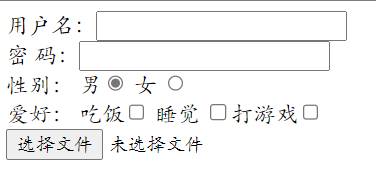
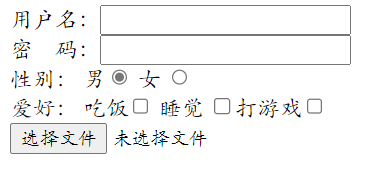
Site updated: 2022-10-24 23:29:41

Changed region(s): [[0.0, 0.3488, 0.9591, 0.9302], [0.0, 0.0, 1.0, 0.3779], [0.0, 0.407, 0.1798, 0.5523]]

diff --git a/sw.js b/sw.js
@@ -10,7 +10,7 @@
 
 'use strict';
 
-var precacheConfig = [["/2022/10/11/MySQL安装/index.html","6368d331629e6b548df9bf03b1d5ab9a"],["/2022/10/11/MySQL操作/index.html","528d9a59b4fbc3b397c2f718725fbf26"],["/2022/10/19/HTML5/index.html","af205c9cacbf6f146ef7f18ec06c9e3e"],["/2022/10/22/CSS学习/index.html","4e052bc5242465fb182033153c2207da"],["/about/index.html","e76acec8c5b2d4aea53b94b8cbdc3209"],["/archives/2022/10/index.html","4147d011654fecd4f681c33033816966"],["/archives/2022/index.html","46de56675c6ac17aa91ca8c5904dd369"],["/archives/index.html","35082651f9809ce66fc561eac69deb70"],["/categories/index.html","a4f8ca22bc68a96698f73d098a5abf43"],["/categories/web前端/index.html","68a0ac1ffad8efcf6ba01b0db6abb1a9"],["/categories/数据库/index.html","0551cedf0d657305753e26a03ad19757"],["/css/FiraCode.css","5721e9035217ed14ca819e025db6bc74"],["/css/barrager.css","c3faa9826b45bdd738e401f0a9c4192f"],["/css/bb.css","a13497fcf67377687248cad43633417c"],["/css/dark.css","fa94e3961b7b3c3adec97d8e7558f33c"],["/css/flesx.css","c883b907e029239a4adbdcfb33d62990"],["/css/gallery.css","995e260b3cd2e85de9f9892b11239361"],["/css/gitment.css","dcd15488193705c273213e72e5ebb7ce"],["/css/indexcover.css","56ef28cea24faa1991bf9f599e24187c"],["/css/loading.css","2103ed59c0acf36d30231c3403cafb4a"],["/css/matery.css","ebd73ef6662e2a33b63c37f5c201dabc"],["/css/my-gitalk.css","3de42b649a2216cc9bbee350cde6a7e0"],["/css/my.css","c4ad2103f0a537e360bd16650e547b22"],["/css/post.css","16f5d4d84047b4390fddbcac1df17b22"],["/css/prism-line-numbers.css","0810c0e4aa6528786cf1253de32ea115"],["/css/prism-tomorrow.css","f46d7519e3b65a6912814727b47a57ff"],["/css/reward.css","8c7d18c8fa6b0e82cc75a867e7e533da"],["/favicon.png","bb44feefd80d6541316f0a21cb5cb824"],["/images/MySQLdownload.png","db6c0387d9a82be60b1f77a212f72017"],["/images/MySQL的路径.png","f2f83bb82bbd8b0de86126d12d930545"],["/images/input表单元素.png","998db64fdb959679d2047038c80bd442"],["/images/新建MySQL环境变量.png","9cc24ce7c50c1a401644d220e5fafbe4"],["/images/无序列表.png","80c06739603280bf4d6dbc0b11744522"],["/images/有序列表.png","e320ee4c4820ddc9b21673556fda4340"],["/images/注册MySQL.png","4cbe376be67b49487f93c45cae786b56"],["/images/添加path.png","b4e3d6ffcfa4ea3cc3dd06b3e30e7ab1"],["/images/生成data.png","d0289c94768f58ce99c4200d10287c69"],["/images/配置MySQL环境变量.png","878a79d52deb5d55ed9c269abe84871a"],["/index.html","cae050665afe62c5d7541e85aa1ef3df"],["/js/canvas_moving.js","d41d8cd98f00b204e9800998ecf8427e"],["/js/crypto-js.js","60ab5dbd46dfa34dfef3c1548a22a978"],["/js/gallery-encrypt.js","84a2c90b15a9313ca9a29ef49e70ba3d"],["/js/jquery.barrager.js","1c84c8e84cd2f94bdb222c75f0638bb6"],["/js/matery.js","9f67a1c1ca204dd3257ba7cd883d77fb"],["/js/search.js","7eca48f0950d5e0a2e04b65964c34d2f"],["/libs/animate/animate.min.css","178b651958ceff556cbc5f355e08bbf1"],["/libs/aos/aos.css","04140612fb8b418cda27dee6ecf61042"],["/libs/aos/aos.js","9cc58a148779953a5ebe9360d6cf978c"],["/libs/aplayer/APlayer.min.css","fbe994054426fadb2dff69d824c5c67a"],["/libs/aplayer/APlayer.min.js","8f1017e7a73737e631ff95fa51e4e7d7"],["/libs/aplayer/Meting.min.js","c0e989e618a2c6f90f59fa1822941d75"],["/libs/awesome/css/all.css","59e626fe99d31dfded1e674a4089e0c8"],["/libs/awesome/css/all.min.css","8ef777107c4620d4ddd4f8c4bb14a36c"],["/libs/awesome/webfonts/fa-brands-400.ttf","3c90ddcce4c5c666e642e5b6ae53ede6"],["/libs/awesome/webfonts/fa-brands-400.woff2","5531dd3a7705ec68a6c5f5d02b25da6f"],["/libs/awesome/webfonts/fa-regular-400.ttf","02acddafdebd72be23b03798c86f2fec"],["/libs/awesome/webfonts/fa-regular-400.woff2","e42bcafcb7cc5002daa805140064bf40"],["/libs/awesome/webfonts/fa-solid-900.ttf","a59a3077d72245429c95c29dfe119546"],["/libs/awesome/webfonts/fa-solid-900.woff2","be4dccbe54eea47a0ad5d7bb60a3c17d"],["/libs/awesome/webfonts/fa-v4compatibility.ttf","6334955791896af71300ae5c46e8fb08"],["/libs/awesome/webfonts/fa-v4compatibility.woff2","eca6332a7e5060488f5fb896747fe50a"],["/libs/background/canvas-nest.js","a62fd97db8d4bce3a5e30406831e398d"],["/libs/background/ribbon-dynamic.js","eb6e9d5f62d717fa62445227883dc7b7"],["/libs/background/ribbon-refresh.min.js","6692e63df52b5230e673fc0a3aea5534"],["/libs/background/ribbon.min.js","52d83827dd2784a3d41b65694a6534e5"],["/libs/codeBlock/codeBlockFuction.js","1f379c32001349805cb987371cfccd1a"],["/libs/codeBlock/codeCopy.js","55f2d2a503aad4f9af5d3af66df912cf"],["/libs/codeBlock/codeLang.js","dc4533be151964237f2a0006db27e5fa"],["/libs/codeBlock/codeShrink.js","ae277c5d8f8336fce64f89203b926d19"],["/libs/cryptojs/crypto-js.min.js","a39fc84fa7659e1d898bbcddf20aa989"],["/libs/dplayer/DPlayer.min.css","31ac9b1a5a7f018dcc9a0e0f66261c08"],["/libs/dplayer/DPlayer.min.js","472552604f19815d0a634bd3d953171e"],["/libs/echarts/echarts.min.js","b4af19a834bf7cd6435dd8e1ad24cc90"],["/libs/fancybox/fancybox.js","49a6b4d019a934bcf83f0c397eba82d8"],["/libs/fancybox/jquery.fancybox.css","a2d42584292f64c5827e8b67b1b38726"],["/libs/gitalk/gitalk.css","8476031a633732dff9875feae0890070"],["/libs/gitalk/gitalk.min.js","7152eaccbb4bfa6333e19971960018e9"],["/libs/gitment/gitment-default.css","46f304e637384c546f25b5ad90f0fe5a"],["/libs/gitment/gitment.js","2d64177544df22f08ccc1c86fc181e0e"],["/libs/instantpage/instantpage.js","47fcedd7bba8eb1ad3b035c8727f06b5"],["/libs/jqcloud/jqcloud-1.0.4.min.js","b5b4d1002ff256e9bed2b339f572dedc"],["/libs/jqcloud/jqcloud.css","978ed746c5673321fba8401ed6a536ac"],["/libs/jquery/jquery-3.6.0.min.js","8fb8fee4fcc3cc86ff6c724154c49c42"],["/libs/justifiedGallery/justifiedGallery.min.css","0eb3894f1fb48fbc54fbd2072b4372f8"],["/libs/justifiedGallery/justifiedGallery.min.js","f12e15ba020d049ba166af44960051c9"],["/libs/lightGallery/css/lightgallery.min.css","0ecaf59cd1b7e19f2a7b34683d32068c"],["/libs/lightGallery/fonts/lg.svg","e2ec05977cb4b0a18bbcb7f607b79620"],["/libs/lightGallery/fonts/lg.ttf","f4292655f93dd12d9b8e4fc067ef2489"],["/libs/lightGallery/fonts/lg.woff","1fbfd4bcffccb94e8e8a5ea70616b296"],["/libs/lightGallery/img/loading.gif","bbdac9cda255c54bfd809110aff87898"],["/libs/lightGallery/img/video-play.png","d672259b56b5dd1abdff3a98d87864e8"],["/libs/lightGallery/img/vimeo-play.png","a951123e4f7cb5d037a6a872f001a8af"],["/libs/lightGallery/img/youtube-play.png","6267452d4f9c32c7550cec6587f985d3"],["/libs/lightGallery/js/lightgallery-all.min.js","b4705ab663a9555d29fa69a3cf6bec0b"],["/libs/masonry/masonry.pkgd.min.js","520e46df77727aaf3d5e799ef241be02"],["/libs/materialize/materialize.min.css","3a5681d6939e48ba5038fbf8f9f244a2"],["/libs/materialize/materialize.min.js","87d84bf8b4cc051c16092d27b1a7d9b3"],["/libs/mermaid/mermaid.js","f3687bf99ec4a8b6608d45d2809eab00"],["/libs/mermaid/mermaid.min.css","5e9cbdf9d18097fc1d4649670a5be633"],["/libs/mermaid/mermaid.min.js","ded87f243544923cd210927ca94ab13c"],["/libs/minivaline/MiniValine.js","bb0f8ed46503472ce77575f9db9dda93"],["/libs/others/TencentCaptcha.js","628af9af35fd7579c1b5f481f7a77aa0"],["/libs/others/buble.js","2e0024a9ce8eb997e7ed4a1b6e50053d"],["/libs/others/busuanzi.pure.mini.js","4c9a89414b97bb2053ccc7cb83c83b6e"],["/libs/others/clicklove.js","6a3861c11c04010dd4de27c162cb8a83"],["/libs/others/popupText.js","1c58c6da78090863189a9059d3370488"],["/libs/others/sakura-half.js","d1cccaec887352d5fff341f873ee0210"],["/libs/others/sakura-reduce.js","c86b1fe1a4f144ec4784b13b17821869"],["/libs/others/sakura-small.js","d9a110e05f736ef48c93f05b45edd397"],["/libs/others/sakura.js","cb6251075cc14487276119b508cd68bf"],["/libs/others/snow.js","f320c79941e71f888b78084d8041e8d9"],["/libs/others/star.js","27343eec730d8dc904e90c898ee84824"],["/libs/prism/prism.min.css","4b60600e667d6e9c12c09847efad9212"],["/libs/prism/prism.min.js","c5836472f4637c9b4ab02b6f4eaf0bae"],["/libs/scrollprogress/scrollProgress.min.js","63212ebfb10736224d44bcda8a155278"],["/libs/share/css/share.min.css","a5d28161d70468ec2378da676284a34f"],["/libs/share/fonts/iconfont.eot","e83ffaa95463f987abe5db5bbbe303cc"],["/libs/share/fonts/iconfont.svg","6b3cbfae255ab1f2c1e8e8bfc80754d4"],["/libs/share/fonts/iconfont.ttf","9ac2cc5ae8616eb50c033525dc14a5eb"],["/libs/share/fonts/iconfont.woff","bf0fc2ec6e2a614635e0ab6e81d059ef"],["/libs/share/js/jquery.share.min.js","044c903516dd20036471d65d5269821c"],["/libs/share/js/social-share.min.js","7d8197222dcdbe0e7e645a605bf76851"],["/libs/tocbot/tocbot.css","e8f0173e7c5216e5359587a88a570b77"],["/libs/tocbot/tocbot.min.js","4d7b1dfb31f74b6d0701cf3120933597"],["/libs/twikoo/twikoo.all.min.js","feefb4c63d8eea58211ef6113d5ef163"],["/libs/typed/typed.js","477fdd6405150093080290d2e8153eac"],["/libs/valine/Valine.min.js","331401bbfbdcceabffa29e3507e00be4"],["/libs/valine/av-min.js","b3a0738d1144660f94741da963c1d268"],["/libs/waline/Waline.min.js","ed6cbbe9d1e40233030635398ed386aa"],["/live2dw/lib/L2Dwidget.0.min.js","32973883fcac0a9ae6cc79c0ea25fda2"],["/live2dw/lib/L2Dwidget.min.js","094cbace49a39548bed64abff5988b05"],["/medias/avatar.jpg","24361c381571dbf415de5d04f374f76d"],["/medias/banner/0.jpg","fd61f8bba3896620625d32aff189d6cc"],["/medias/banner/1.jpg","d637331f15d889f30b5a8521c80fc98a"],["/medias/banner/2.jpg","064fb4f421d0620ddcb2b218dcc1bd0f"],["/medias/banner/3.jpg","445dcbe7944b2e3bd5d53b7bea04a1c8"],["/medias/banner/4.jpg","9e2e5ff9fb783c78c7bad47041787097"],["/medias/banner/5.jpg","8319a1b033ffa1ae31b757d16390e69e"],["/medias/banner/6.jpg","a939c8c257fad2cf32ff4db949f6d578"],["/medias/barrager/0.png","f5d8318197ffd7ce9aacf308bf186c5e"],["/medias/barrager/1.png","ea244312d1bf53680470f3da4d308bb4"],["/medias/barrager/2.png","50e265a8acfea4b3bafd407dff4ceaba"],["/medias/barrager/close.png","ab45ca050318e57b6559bb3503bc19a1"],["/medias/comment_bg.png","04208f25e34b8f29f072efbb2e212c86"],["/medias/cover.jpg","1253d8cf7abf8e92af47bda2bf61bd84"],["/medias/featureimages/0.jpg","f751cba3a4cd6381611bb4ec97d35e77"],["/medias/featureimages/1.jpg","d440f1a8faa3af050511b79ae30a10b0"],["/medias/featureimages/10.jpg","daaa0bfde5bade9fd47a9828a89c1044"],["/medias/featureimages/11.jpg","c613fbd6f7fadb8e65fdae620d89d277"],["/medias/featureimages/12.jpg","df9abf1fa933cee751d211828c35e4f5"],["/medias/featureimages/13.jpg","677c90f32232dd162b9c504ff176b100"],["/medias/featureimages/14.jpg","891ea5f9186f889adef7b215d9be9948"],["/medias/featureimages/15.jpg","3cf1acc3d317690beae0520a1e606b30"],["/medias/featureimages/16.jpg","403a5973092edf7b1fc9cfb809ed4b05"],["/medias/featureimages/17.jpg","a88c2a1cc175f75b8b60f3224026b4de"],["/medias/featureimages/18.jpg","d8104647c594f21438cbc17331c57025"],["/medias/featureimages/19.jpg","86258814e4374b85adac9bd8235ad110"],["/medias/featureimages/2.jpg","d2f7104d393ee322de0cba7313eddf74"],["/medias/featureimages/20.jpg","0ec7a7cc344f3d47dbc556ea312a365f"],["/medias/featureimages/21.jpg","7202402f259237ea1f3f6bb82d208888"],["/medias/featureimages/22.jpg","6b1b1da789eecd376a5e6843314f26ad"],["/medias/featureimages/23.jpg","95ea042be75c28794ddca649388ad3c7"],["/medias/featureimages/3.jpg","afcee76cc47ff729c484202e201cafd4"],["/medias/featureimages/4.jpg","ddd80ccca8d84079255bbfbf4244debd"],["/medias/featureimages/5.jpg","eeb46fbd8f9c6999a2f3fbdcf34e8b3e"],["/medias/featureimages/6.jpg","ae4562052cf07bc1912d5fd90e00b2ce"],["/medias/featureimages/7.jpg","af5b8a1b0fbab59e68a69005b2a0eeb7"],["/medias/featureimages/8.jpg","6d9136c0bf542e136dd70a6a7c97521b"],["/medias/featureimages/9.jpg","52e8f9aca543d2d4838c14bce33ecee1"],["/medias/icp.png","60aa047315ba11596d9f954900c86fdb"],["/medias/images/01.jpg","df3a6be5078170d97b0fa7af440c00d5"],["/medias/images/02.jpg","e48d5fab83ae2f90e2e6f0eef22ec85c"],["/medias/images/03.jpg","01d3b8abfc97d822ef159033b3cec89f"],["/medias/logo.png","6fd306e0fb239e42ec8f82793e6ae6ee"],["/medias/reward/alipay.jpg","04870d77ea3c0385dca3679c36fca0fa"],["/medias/reward/wechat.png","643f8e9c3d85731ada4b20db1924fdc9"],["/sw-register.js","e1112f3debf015fe07e98c38e8607f0b"],["/tags/CSS/index.html","934d7dd6e85b0a593aa3b47f8d1b862b"],["/tags/MySQL/index.html","46edc6505ded09c0cb2e667ea2ff89a0"],["/tags/html/index.html","ebcaeb6611c03eb611ba8f79792681b8"],["/tags/index.html","7316044ea0d6b224c33ff2eb81f5daf6"]];
+var precacheConfig = [["/2022/10/11/MySQL安装/index.html","6368d331629e6b548df9bf03b1d5ab9a"],["/2022/10/11/MySQL操作/index.html","528d9a59b4fbc3b397c2f718725fbf26"],["/2022/10/19/HTML5/index.html","2ac15e1e00ebf6677fda6fcfc17c296e"],["/2022/10/22/CSS学习/index.html","4e052bc5242465fb182033153c2207da"],["/about/index.html","e76acec8c5b2d4aea53b94b8cbdc3209"],["/archives/2022/10/index.html","4147d011654fecd4f681c33033816966"],["/archives/2022/index.html","46de56675c6ac17aa91ca8c5904dd369"],["/archives/index.html","35082651f9809ce66fc561eac69deb70"],["/categories/index.html","a4f8ca22bc68a96698f73d098a5abf43"],["/categories/web前端/index.html","68a0ac1ffad8efcf6ba01b0db6abb1a9"],["/categories/数据库/index.html","0551cedf0d657305753e26a03ad19757"],["/css/FiraCode.css","5721e9035217ed14ca819e025db6bc74"],["/css/barrager.css","c3faa9826b45bdd738e401f0a9c4192f"],["/css/bb.css","a13497fcf67377687248cad43633417c"],["/css/dark.css","fa94e3961b7b3c3adec97d8e7558f33c"],["/css/flesx.css","c883b907e029239a4adbdcfb33d62990"],["/css/gallery.css","995e260b3cd2e85de9f9892b11239361"],["/css/gitment.css","dcd15488193705c273213e72e5ebb7ce"],["/css/indexcover.css","56ef28cea24faa1991bf9f599e24187c"],["/css/loading.css","2103ed59c0acf36d30231c3403cafb4a"],["/css/matery.css","ebd73ef6662e2a33b63c37f5c201dabc"],["/css/my-gitalk.css","3de42b649a2216cc9bbee350cde6a7e0"],["/css/my.css","c4ad2103f0a537e360bd16650e547b22"],["/css/post.css","16f5d4d84047b4390fddbcac1df17b22"],["/css/prism-line-numbers.css","0810c0e4aa6528786cf1253de32ea115"],["/css/prism-tomorrow.css","f46d7519e3b65a6912814727b47a57ff"],["/css/reward.css","8c7d18c8fa6b0e82cc75a867e7e533da"],["/favicon.png","bb44feefd80d6541316f0a21cb5cb824"],["/images/MySQLdownload.png","db6c0387d9a82be60b1f77a212f72017"],["/images/MySQL的路径.png","f2f83bb82bbd8b0de86126d12d930545"],["/images/input表单元素.png","a245abb9deafe2817a20342d551cd3e9"],["/images/新建MySQL环境变量.png","9cc24ce7c50c1a401644d220e5fafbe4"],["/images/无序列表.png","80c06739603280bf4d6dbc0b11744522"],["/images/有序列表.png","e320ee4c4820ddc9b21673556fda4340"],["/images/注册MySQL.png","4cbe376be67b49487f93c45cae786b56"],["/images/添加path.png","b4e3d6ffcfa4ea3cc3dd06b3e30e7ab1"],["/images/生成data.png","d0289c94768f58ce99c4200d10287c69"],["/images/配置MySQL环境变量.png","878a79d52deb5d55ed9c269abe84871a"],["/index.html","cae050665afe62c5d7541e85aa1ef3df"],["/js/canvas_moving.js","d41d8cd98f00b204e9800998ecf8427e"],["/js/crypto-js.js","60ab5dbd46dfa34dfef3c1548a22a978"],["/js/gallery-encrypt.js","84a2c90b15a9313ca9a29ef49e70ba3d"],["/js/jquery.barrager.js","1c84c8e84cd2f94bdb222c75f0638bb6"],["/js/matery.js","9f67a1c1ca204dd3257ba7cd883d77fb"],["/js/search.js","7eca48f0950d5e0a2e04b65964c34d2f"],["/libs/animate/animate.min.css","178b651958ceff556cbc5f355e08bbf1"],["/libs/aos/aos.css","04140612fb8b418cda27dee6ecf61042"],["/libs/aos/aos.js","9cc58a148779953a5ebe9360d6cf978c"],["/libs/aplayer/APlayer.min.css","fbe994054426fadb2dff69d824c5c67a"],["/libs/aplayer/APlayer.min.js","8f1017e7a73737e631ff95fa51e4e7d7"],["/libs/aplayer/Meting.min.js","c0e989e618a2c6f90f59fa1822941d75"],["/libs/awesome/css/all.css","59e626fe99d31dfded1e674a4089e0c8"],["/libs/awesome/css/all.min.css","8ef777107c4620d4ddd4f8c4bb14a36c"],["/libs/awesome/webfonts/fa-brands-400.ttf","3c90ddcce4c5c666e642e5b6ae53ede6"],["/libs/awesome/webfonts/fa-brands-400.woff2","5531dd3a7705ec68a6c5f5d02b25da6f"],["/libs/awesome/webfonts/fa-regular-400.ttf","02acddafdebd72be23b03798c86f2fec"],["/libs/awesome/webfonts/fa-regular-400.woff2","e42bcafcb7cc5002daa805140064bf40"],["/libs/awesome/webfonts/fa-solid-900.ttf","a59a3077d72245429c95c29dfe119546"],["/libs/awesome/webfonts/fa-solid-900.woff2","be4dccbe54eea47a0ad5d7bb60a3c17d"],["/libs/awesome/webfonts/fa-v4compatibility.ttf","6334955791896af71300ae5c46e8fb08"],["/libs/awesome/webfonts/fa-v4compatibility.woff2","eca6332a7e5060488f5fb896747fe50a"],["/libs/background/canvas-nest.js","a62fd97db8d4bce3a5e30406831e398d"],["/libs/background/ribbon-dynamic.js","eb6e9d5f62d717fa62445227883dc7b7"],["/libs/background/ribbon-refresh.min.js","6692e63df52b5230e673fc0a3aea5534"],["/libs/background/ribbon.min.js","52d83827dd2784a3d41b65694a6534e5"],["/libs/codeBlock/codeBlockFuction.js","1f379c32001349805cb987371cfccd1a"],["/libs/codeBlock/codeCopy.js","55f2d2a503aad4f9af5d3af66df912cf"],["/libs/codeBlock/codeLang.js","dc4533be151964237f2a0006db27e5fa"],["/libs/codeBlock/codeShrink.js","ae277c5d8f8336fce64f89203b926d19"],["/libs/cryptojs/crypto-js.min.js","a39fc84fa7659e1d898bbcddf20aa989"],["/libs/dplayer/DPlayer.min.css","31ac9b1a5a7f018dcc9a0e0f66261c08"],["/libs/dplayer/DPlayer.min.js","472552604f19815d0a634bd3d953171e"],["/libs/echarts/echarts.min.js","b4af19a834bf7cd6435dd8e1ad24cc90"],["/libs/fancybox/fancybox.js","49a6b4d019a934bcf83f0c397eba82d8"],["/libs/fancybox/jquery.fancybox.css","a2d42584292f64c5827e8b67b1b38726"],["/libs/gitalk/gitalk.css","8476031a633732dff9875feae0890070"],["/libs/gitalk/gitalk.min.js","7152eaccbb4bfa6333e19971960018e9"],["/libs/gitment/gitment-default.css","46f304e637384c546f25b5ad90f0fe5a"],["/libs/gitment/gitment.js","2d64177544df22f08ccc1c86fc181e0e"],["/libs/instantpage/instantpage.js","47fcedd7bba8eb1ad3b035c8727f06b5"],["/libs/jqcloud/jqcloud-1.0.4.min.js","b5b4d1002ff256e9bed2b339f572dedc"],["/libs/jqcloud/jqcloud.css","978ed746c5673321fba8401ed6a536ac"],["/libs/jquery/jquery-3.6.0.min.js","8fb8fee4fcc3cc86ff6c724154c49c42"],["/libs/justifiedGallery/justifiedGallery.min.css","0eb3894f1fb48fbc54fbd2072b4372f8"],["/libs/justifiedGallery/justifiedGallery.min.js","f12e15ba020d049ba166af44960051c9"],["/libs/lightGallery/css/lightgallery.min.css","0ecaf59cd1b7e19f2a7b34683d32068c"],["/libs/lightGallery/fonts/lg.svg","e2ec05977cb4b0a18bbcb7f607b79620"],["/libs/lightGallery/fonts/lg.ttf","f4292655f93dd12d9b8e4fc067ef2489"],["/libs/lightGallery/fonts/lg.woff","1fbfd4bcffccb94e8e8a5ea70616b296"],["/libs/lightGallery/img/loading.gif","bbdac9cda255c54bfd809110aff87898"],["/libs/lightGallery/img/video-play.png","d672259b56b5dd1abdff3a98d87864e8"],["/libs/lightGallery/img/vimeo-play.png","a951123e4f7cb5d037a6a872f001a8af"],["/libs/lightGallery/img/youtube-play.png","6267452d4f9c32c7550cec6587f985d3"],["/libs/lightGallery/js/lightgallery-all.min.js","b4705ab663a9555d29fa69a3cf6bec0b"],["/libs/masonry/masonry.pkgd.min.js","520e46df77727aaf3d5e799ef241be02"],["/libs/materialize/materialize.min.css","3a5681d6939e48ba5038fbf8f9f244a2"],["/libs/materialize/materialize.min.js","87d84bf8b4cc051c16092d27b1a7d9b3"],["/libs/mermaid/mermaid.js","f3687bf99ec4a8b6608d45d2809eab00"],["/libs/mermaid/mermaid.min.css","5e9cbdf9d18097fc1d4649670a5be633"],["/libs/mermaid/mermaid.min.js","ded87f243544923cd210927ca94ab13c"],["/libs/minivaline/MiniValine.js","bb0f8ed46503472ce77575f9db9dda93"],["/libs/others/TencentCaptcha.js","628af9af35fd7579c1b5f481f7a77aa0"],["/libs/others/buble.js","2e0024a9ce8eb997e7ed4a1b6e50053d"],["/libs/others/busuanzi.pure.mini.js","4c9a89414b97bb2053ccc7cb83c83b6e"],["/libs/others/clicklove.js","6a3861c11c04010dd4de27c162cb8a83"],["/libs/others/popupText.js","1c58c6da78090863189a9059d3370488"],["/libs/others/sakura-half.js","d1cccaec887352d5fff341f873ee0210"],["/libs/others/sakura-reduce.js","c86b1fe1a4f144ec4784b13b17821869"],["/libs/others/sakura-small.js","d9a110e05f736ef48c93f05b45edd397"],["/libs/others/sakura.js","cb6251075cc14487276119b508cd68bf"],["/libs/others/snow.js","f320c79941e71f888b78084d8041e8d9"],["/libs/others/star.js","27343eec730d8dc904e90c898ee84824"],["/libs/prism/prism.min.css","4b60600e667d6e9c12c09847efad9212"],["/libs/prism/prism.min.js","c5836472f4637c9b4ab02b6f4eaf0bae"],["/libs/scrollprogress/scrollProgress.min.js","63212ebfb10736224d44bcda8a155278"],["/libs/share/css/share.min.css","a5d28161d70468ec2378da676284a34f"],["/libs/share/fonts/iconfont.eot","e83ffaa95463f987abe5db5bbbe303cc"],["/libs/share/fonts/iconfont.svg","6b3cbfae255ab1f2c1e8e8bfc80754d4"],["/libs/share/fonts/iconfont.ttf","9ac2cc5ae8616eb50c033525dc14a5eb"],["/libs/share/fonts/iconfont.woff","bf0fc2ec6e2a614635e0ab6e81d059ef"],["/libs/share/js/jquery.share.min.js","044c903516dd20036471d65d5269821c"],["/libs/share/js/social-share.min.js","7d8197222dcdbe0e7e645a605bf76851"],["/libs/tocbot/tocbot.css","e8f0173e7c5216e5359587a88a570b77"],["/libs/tocbot/tocbot.min.js","4d7b1dfb31f74b6d0701cf3120933597"],["/libs/twikoo/twikoo.all.min.js","feefb4c63d8eea58211ef6113d5ef163"],["/libs/typed/typed.js","477fdd6405150093080290d2e8153eac"],["/libs/valine/Valine.min.js","331401bbfbdcceabffa29e3507e00be4"],["/libs/valine/av-min.js","b3a0738d1144660f94741da963c1d268"],["/libs/waline/Waline.min.js","ed6cbbe9d1e40233030635398ed386aa"],["/live2dw/lib/L2Dwidget.0.min.js","32973883fcac0a9ae6cc79c0ea25fda2"],["/live2dw/lib/L2Dwidget.min.js","094cbace49a39548bed64abff5988b05"],["/medias/avatar.jpg","24361c381571dbf415de5d04f374f76d"],["/medias/banner/0.jpg","fd61f8bba3896620625d32aff189d6cc"],["/medias/banner/1.jpg","d637331f15d889f30b5a8521c80fc98a"],["/medias/banner/2.jpg","064fb4f421d0620ddcb2b218dcc1bd0f"],["/medias/banner/3.jpg","445dcbe7944b2e3bd5d53b7bea04a1c8"],["/medias/banner/4.jpg","9e2e5ff9fb783c78c7bad47041787097"],["/medias/banner/5.jpg","8319a1b033ffa1ae31b757d16390e69e"],["/medias/banner/6.jpg","a939c8c257fad2cf32ff4db949f6d578"],["/medias/barrager/0.png","f5d8318197ffd7ce9aacf308bf186c5e"],["/medias/barrager/1.png","ea244312d1bf53680470f3da4d308bb4"],["/medias/barrager/2.png","50e265a8acfea4b3bafd407dff4ceaba"],["/medias/barrager/close.png","ab45ca050318e57b6559bb3503bc19a1"],["/medias/comment_bg.png","04208f25e34b8f29f072efbb2e212c86"],["/medias/cover.jpg","1253d8cf7abf8e92af47bda2bf61bd84"],["/medias/featureimages/0.jpg","f751cba3a4cd6381611bb4ec97d35e77"],["/medias/featureimages/1.jpg","d440f1a8faa3af050511b79ae30a10b0"],["/medias/featureimages/10.jpg","daaa0bfde5bade9fd47a9828a89c1044"],["/medias/featureimages/11.jpg","c613fbd6f7fadb8e65fdae620d89d277"],["/medias/featureimages/12.jpg","df9abf1fa933cee751d211828c35e4f5"],["/medias/featureimages/13.jpg","677c90f32232dd162b9c504ff176b100"],["/medias/featureimages/14.jpg","891ea5f9186f889adef7b215d9be9948"],["/medias/featureimages/15.jpg","3cf1acc3d317690beae0520a1e606b30"],["/medias/featureimages/16.jpg","403a5973092edf7b1fc9cfb809ed4b05"],["/medias/featureimages/17.jpg","a88c2a1cc175f75b8b60f3224026b4de"],["/medias/featureimages/18.jpg","d8104647c594f21438cbc17331c57025"],["/medias/featureimages/19.jpg","86258814e4374b85adac9bd8235ad110"],["/medias/featureimages/2.jpg","d2f7104d393ee322de0cba7313eddf74"],["/medias/featureimages/20.jpg","0ec7a7cc344f3d47dbc556ea312a365f"],["/medias/featureimages/21.jpg","7202402f259237ea1f3f6bb82d208888"],["/medias/featureimages/22.jpg","6b1b1da789eecd376a5e6843314f26ad"],["/medias/featureimages/23.jpg","95ea042be75c28794ddca649388ad3c7"],["/medias/featureimages/3.jpg","afcee76cc47ff729c484202e201cafd4"],["/medias/featureimages/4.jpg","ddd80ccca8d84079255bbfbf4244debd"],["/medias/featureimages/5.jpg","eeb46fbd8f9c6999a2f3fbdcf34e8b3e"],["/medias/featureimages/6.jpg","ae4562052cf07bc1912d5fd90e00b2ce"],["/medias/featureimages/7.jpg","af5b8a1b0fbab59e68a69005b2a0eeb7"],["/medias/featureimages/8.jpg","6d9136c0bf542e136dd70a6a7c97521b"],["/medias/featureimages/9.jpg","52e8f9aca543d2d4838c14bce33ecee1"],["/medias/icp.png","60aa047315ba11596d9f954900c86fdb"],["/medias/images/01.jpg","df3a6be5078170d97b0fa7af440c00d5"],["/medias/images/02.jpg","e48d5fab83ae2f90e2e6f0eef22ec85c"],["/medias/images/03.jpg","01d3b8abfc97d822ef159033b3cec89f"],["/medias/logo.png","6fd306e0fb239e42ec8f82793e6ae6ee"],["/medias/reward/alipay.jpg","04870d77ea3c0385dca3679c36fca0fa"],["/medias/reward/wechat.png","643f8e9c3d85731ada4b20db1924fdc9"],["/sw-register.js","01d890a1564a340e47bfc4d62e0f097f"],["/tags/CSS/index.html","934d7dd6e85b0a593aa3b47f8d1b862b"],["/tags/MySQL/index.html","46edc6505ded09c0cb2e667ea2ff89a0"],["/tags/html/index.html","ebcaeb6611c03eb611ba8f79792681b8"],["/tags/index.html","7316044ea0d6b224c33ff2eb81f5daf6"]];
 var cacheName = 'sw-precache-v3--' + (self.registration ? self.registration.scope : '');
 var firstRegister = 1; // 默认1是首次安装SW， 0是SW更新
 

diff --git a/2022/10/19/HTML5/index.html b/2022/10/19/HTML5/index.html
@@ -506,10 +506,10 @@ html标签的子标签
 </tr>
 </tbody></table>
 </li>
-<li><p>文章标签<br>放在body标签中</p>
+<li><p>文章标签</p>
 <pre class="line-numbers language-html"><code class="language-html"><span class="token tag"><span class="token tag"><span class="token punctuation">&lt;</span>article</span><span class="token punctuation">></span></span>导航<span class="token tag"><span class="token tag"><span class="token punctuation">&lt;/</span>article</span><span class="token punctuation">></span></span>
 <span aria-hidden="true" class="line-numbers-rows"><span></span></span></code></pre>
-<p>放在文章</p>
+<p>放在body标签中</p>
 </li>
 <li><p>语义化标签</p>
 <table>
@@ -666,14 +666,19 @@ html标签的子标签
   <span class="token comment" spellcheck="true">&lt;!--单选按钮 实现多选一--></span>
   <span class="token comment" spellcheck="true">&lt;!--name是表单域名字 单选按钮必须要有相同的名字name 才能多选一--></span>
   <span class="token comment" spellcheck="true">&lt;!--checked默认选项--></span>
-  性别： 男&lt;input type ="radio" name = "sex" value ="男" checked ="checked"> 女 &lt;input type ="radio" name = "sex" vuale ="女"><span class="token tag"><span class="token tag"><span class="token punctuation">&lt;</span>br</span><span class="token punctuation">></span></span>
+  性别： 男&lt;input type ="radio" name = "sex" value ="男" checked ="checked"> 
+  女 &lt;input type ="radio" name = "sex" vuale ="女"><span class="token tag"><span class="token tag"><span class="token punctuation">&lt;</span>br</span><span class="token punctuation">></span></span>
   <span class="token comment" spellcheck="true">&lt;!--多选按钮 实现--></span>
-  爱好： 吃饭&lt;input type ="checkbox" name = "bobby" value="吃饭"> 睡觉 &lt;input type ="checkbox" name = "bobby" value="睡觉">打游戏&lt;input type ="checkbox" name = "bobby" value="打游戏"><span class="token tag"><span class="token tag"><span class="token punctuation">&lt;</span>br</span><span class="token punctuation">></span></span>
+  爱好： 吃饭&lt;input type ="checkbox" name = "bobby" value="吃饭"> 
+  睡觉 &lt;input type ="checkbox" name = "bobby" value="睡觉">
+  打游戏&lt;input type ="checkbox" name = "bobby" value="打游戏"><span class="token tag"><span class="token tag"><span class="token punctuation">&lt;</span>br</span><span class="token punctuation">></span></span>
   &lt;input type ="file">
 <span class="token tag"><span class="token tag"><span class="token punctuation">&lt;/</span>form</span><span class="token punctuation">></span></span> 
-！[](/images/input单元元素.png)
-<span aria-hidden="true" class="line-numbers-rows"><span></span><span></span><span></span><span></span><span></span><span></span><span></span><span></span><span></span><span></span><span></span><span></span><span></span></span></code></pre>
-<p>form的主要的属性 </p>
+<span aria-hidden="true" class="line-numbers-rows"><span></span><span></span><span></span><span></span><span></span><span></span><span></span><span></span><span></span><span></span><span></span><span></span><span></span><span></span><span></span></span></code></pre>
+<p><img src="/images/input%E8%A1%A8%E5%8D%95%E5%85%83%E7%B4%A0.png"></p>
+</li>
+<li><ul>
+<li><p>form的主要的属性 </p>
 <table>
 <thead>
 <tr>
@@ -699,10 +704,13 @@ html标签的子标签
 </tr>
 </tbody></table>
 </li>
+</ul>
+</li>
 <li><p>表单控件-input输入表单元素</p>
 </li>
 <li><ul>
-<li>type属性及其描述<table>
+<li><p>type属性及其描述</p>
+<table>
 <thead>
 <tr>
 <th>属性值</th>
@@ -754,7 +762,37 @@ html标签的子标签
 </ul>
 </li>
 <li><ul>
-<li>input中除type外的标签属性<br>|属性|属性值|描述|<br>|name|自定义|定义input元素的名称|<br>|value|自定义|规定input元素的值|<br>|checked|checked|决定input元素的默认值|<br>|maxlength|正整数|规定字段的字符最大长度|</li>
+<li><p>input中除type外的标签属性</p>
+<table>
+<thead>
+<tr>
+<th>属性</th>
+<th>属性值</th>
+<th>描述</th>
+</tr>
+</thead>
+<tbody><tr>
+<td>name</td>
+<td>自定义</td>
+<td>定义input元素的名称</td>
+</tr>
+<tr>
+<td>value</td>
+<td>自定义</td>
+<td>规定input元素的值</td>
+</tr>
+<tr>
+<td>checked</td>
+<td>checked</td>
+<td>决定input元素的默认值</td>
+</tr>
+<tr>
+<td>maxlength</td>
+<td>正整数</td>
+<td>规定字段的字符最大长度</td>
+</tr>
+</tbody></table>
+</li>
 </ul>
 </li>
 <li><p>表单控件-select下拉表单元素</p>

diff --git a/sw-register.js b/sw-register.js
@@ -1,1 +1,1 @@
-navigator.serviceWorker&&navigator.serviceWorker.register('/sw.js?v=20221024232552').then(function(){navigator.serviceWorker.addEventListener('message',function(a){if('sw.update'===a.data){let a=document.querySelector('meta[name=theme-color]'),b=document.createElement('div');a&&(a.content='#000'),b.innerHTML='<div><link rel="stylesheet" href="https://cdn.jsdelivr.net/gh/Colsrch/CDN/hexo-offline-popup.css"><div class="c-message animated animated-lento slideInRight"><i class=" c-message--icon c-message--success"></i><div class="el-notification__group"><h2 class="c-message__title">\u64cd\u4f5c\u901a\u77e5</h2><div class="el-notification__content">\u5df2\u66f4\u65b0\u6700\u65b0\u7248\u672c\uff08\u5237\u65b0\u751f\u6548\uff09</div><div class="c-message--close" onclick="location.reload()">×</div></div></div></div>',document.body.appendChild(b),setTimeout(function(){document.getElementById('app-refresh').className+=' app-refresh-show'},16)}})});
+navigator.serviceWorker&&navigator.serviceWorker.register('/sw.js?v=20221024232930').then(function(){navigator.serviceWorker.addEventListener('message',function(a){if('sw.update'===a.data){let a=document.querySelector('meta[name=theme-color]'),b=document.createElement('div');a&&(a.content='#000'),b.innerHTML='<div><link rel="stylesheet" href="https://cdn.jsdelivr.net/gh/Colsrch/CDN/hexo-offline-popup.css"><div class="c-message animated animated-lento slideInRight"><i class=" c-message--icon c-message--success"></i><div class="el-notification__group"><h2 class="c-message__title">\u64cd\u4f5c\u901a\u77e5</h2><div class="el-notification__content">\u5df2\u66f4\u65b0\u6700\u65b0\u7248\u672c\uff08\u5237\u65b0\u751f\u6548\uff09</div><div class="c-message--close" onclick="location.reload()">×</div></div></div></div>',document.body.appendChild(b),setTimeout(function(){document.getElementById('app-refresh').className+=' app-refresh-show'},16)}})});
